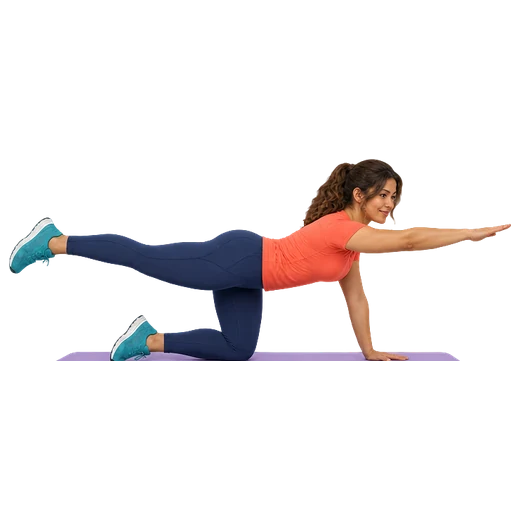
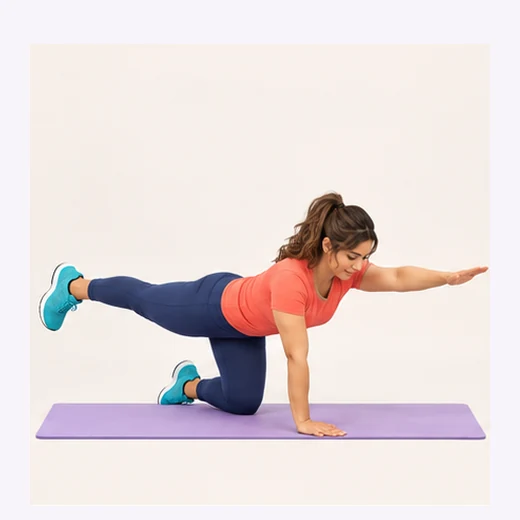
Add four-frame exercise animations

Changed region(s): [[0.0, 0.3077, 0.9846, 0.8615]]

diff --git a/src/components.jsx b/src/components.jsx
@@ -41,7 +41,7 @@ export function Onboarding({initial,onSave,onClose}){
  {step===0&&<><label className="field">¿Cómo te llamas? <span className="muted">(opcional)</span><input value={p.name} maxLength={30} onChange={e=>update('name',e.target.value)} placeholder="Tu nombre"/></label><p>¿Qué te gustaría conseguir?</p><div className="choices two">{Object.entries(GOALS).map(([v,l],i)=>{const I=[Leaf,Dumbbell,Sun,Wind,Heart][i];return <button key={v} className={'choice '+(p.goal===v?'selected':'')} onClick={()=>setP(x=>({...x,goal:v,diastasis:v==='core'?true:x.diastasis}))}><I size={20}/><span>{l}{v==='core'&&<small>Fortalece el control profundo y trabaja el abultamiento asociado a la diástasis.</small>}</span>{p.goal===v&&<Check size={17}/>}</button>})}</div></>}
  {step===1&&<><p className="muted">Esto ajusta el tiempo de trabajo y las variantes. Puedes cambiarlo después.</p><div className="choices">{Object.entries(levels).map(([v,l],i)=><button className={'choice '+(p.level===v?'selected':'')} key={v} onClick={()=>update('level',v)}><span><b>{l}</b><small>{['Quiero aprender los movimientos con calma.','He entrenado antes, pero llevo un tiempo sin hacerlo.','Tengo el hábito y conozco los ejercicios básicos.'][i]}</small></span>{p.level===v&&<Check/>}</button>)}</div></>}
  {step===2&&<><p>¿Cuánto tiempo quieres dedicarle?</p><div className="choices three">{[10,12,15].map(n=><button key={n} className={'choice duration '+(p.minutes===n?'selected':'')} onClick={()=>update('minutes',n)}><strong>{n}</strong><span>minutos</span></button>)}</div><p className="mt">Tu objetivo semanal</p><div className="segmented">{[2,3,4].map(n=><button key={n} className={p.days===n?'active':''} onClick={()=>update('days',n)}>{n} días</button>)}</div><p className="small muted">Incluimos calentamiento, descansos y vuelta a la calma. Puedes repartir los días como te acomode.</p></>}
- {step===3&&<><p>Siempre sin pesas ni máquinas. ¿Tienes una silla firme?</p><button className={'choice '+(p.equipment.includes('chair')?'selected':'')} onClick={()=>toggle('equipment','chair')}><span>Sí, una silla sin ruedas</span>{p.equipment.includes('chair')?<Check/>:<Plus/>}</button><p className="mt">Prefiero evitar… <span className="muted">(opcional)</span></p><div className="choices two">{[['floor','Ejercicios en el suelo'],['wrists','Cargar peso en las muñecas'],['knees','Sentadillas y apoyo de rodillas'],['back','Flexión o carga de espalda'],['shoulders','Trabajo de hombros']].map(([v,l])=><button key={v} className={'choice '+(p.avoid.includes(v)?'selected':'')} onClick={()=>toggle('avoid',v)}><span>{l}</span>{p.avoid.includes(v)?<Check size={17}/>:<Plus size={17}/>}</button>)}</div><p className="small muted">Estas opciones excluyen movimientos; no son un tratamiento para lesiones.</p><p className="mt">Cuidado abdominal</p><button className={'choice '+(guarded?'selected':'')} disabled={p.goal==='core'} onClick={()=>update('diastasis',!p.diastasis)}><span><b>Quiero ejercicios compatibles con diástasis</b><small>Usaremos respiración, abdomen profundo y movimientos lentos. Evitaremos planchas y flexiones.</small></span>{guarded?<Check/>:<Plus/>}</button>{guarded&&<p className="notice">Si ves un cono o bulto en el abdomen, o sientes dolor o presión pélvica, detente. Una separación marcada o persistente necesita evaluación de fisioterapia de piso pélvico. Fortalecer el abdomen profundo puede mejorar el control y el abultamiento; no reduce grasa localizada.</p>}<p className="mt">Elige quién te acompaña</p><div className="coach-choices">{[['sabina','Sabina','Entrenadora y voz femenina'],['victor','Víctor','Entrenador y voz masculina']].map(([value,name,description])=><button type="button" key={value} aria-label={'Elegir a '+name} className={'coach-choice '+(p.coach===value?'selected':'')} onClick={()=>chooseCoach(value)}><span className="coach-preview"><ExerciseArt type="march" animated={false} coach={value}/></span><span><b>{name}</b><small>{description}</small></span>{p.coach===value&&<Check size={18}/>}</button>)}</div><p className="mt">Guía por voz de Microsoft Edge</p><button className={'choice '+(p.sound?'selected':'')} onClick={()=>update('sound',!p.sound)}><span><b>{p.sound?'Narración activada':'Narración desactivada'}</b><small>La voz anuncia el ejercicio y las pausas durante la sesión.</small></span>{p.sound?<Check/>:<Plus/>}</button>{p.sound&&<><label className="field">Voz disponible <select value={p.voiceURI} onChange={e=>update('voiceURI',e.target.value)}><option value="">Automática · prioriza {preferred.name} de Chile</option>{voices.map(v=><option value={v.voiceURI} key={v.voiceURI}>{v.name} · {v.lang}</option>)}</select></label><div className="voice-row"><button type="button" className="button secondary voice-preview" onClick={previewVoice}><Play size={16}/>Probar voz</button><span className={'voice-status '+(chileAvailable?'available':'fallback')}>{chileAvailable?'Voz chilena disponible en Edge.':'Edge no expone '+preferred.name+' en este equipo; usará '+(activeVoice?.name||preferred.fallback+' en español')+' como alternativa.'}</span></div></>}</>}
+ {step===3&&<><p>Siempre sin pesas ni máquinas. ¿Tienes una silla firme?</p><button className={'choice '+(p.equipment.includes('chair')?'selected':'')} onClick={()=>toggle('equipment','chair')}><span>Sí, una silla sin ruedas</span>{p.equipment.includes('chair')?<Check/>:<Plus/>}</button><p className="mt">Prefiero evitar… <span className="muted">(opcional)</span></p><div className="choices two">{[['floor','Ejercicios en el suelo'],['wrists','Cargar peso en las muñecas'],['knees','Sentadillas y apoyo de rodillas'],['back','Flexión o carga de espalda'],['shoulders','Trabajo de hombros']].map(([v,l])=><button key={v} className={'choice '+(p.avoid.includes(v)?'selected':'')} onClick={()=>toggle('avoid',v)}><span>{l}</span>{p.avoid.includes(v)?<Check size={17}/>:<Plus size={17}/>}</button>)}</div><p className="small muted">Estas opciones excluyen movimientos; no son un tratamiento para lesiones.</p><p className="mt">Cuidado abdominal</p><button className={'choice '+(guarded?'selected':'')} disabled={p.goal==='core'} onClick={()=>update('diastasis',!p.diastasis)}><span><b>Quiero ejercicios compatibles con diástasis</b><small>Empezaremos con respiración y control profundo. Las progresiones aparecen solo en nivel activo y si mantienes el abdomen sin abombamiento.</small></span>{guarded?<Check/>:<Plus/>}</button>{guarded&&<p className="notice">Si ves un cono o bulto en el abdomen, o sientes dolor o presión pélvica, detente. Una separación marcada o persistente necesita evaluación de fisioterapia de piso pélvico. Fortalecer el abdomen profundo puede mejorar el control y el abultamiento; no reduce grasa localizada.</p>}<p className="mt">Elige quién te acompaña</p><div className="coach-choices">{[['sabina','Sabina','Entrenadora y voz femenina'],['victor','Víctor','Entrenador y voz masculina']].map(([value,name,description])=><button type="button" key={value} aria-label={'Elegir a '+name} className={'coach-choice '+(p.coach===value?'selected':'')} onClick={()=>chooseCoach(value)}><span className="coach-preview"><ExerciseArt type="march" animated={false} coach={value}/></span><span><b>{name}</b><small>{description}</small></span>{p.coach===value&&<Check size={18}/>}</button>)}</div><p className="mt">Guía por voz de Microsoft Edge</p><button className={'choice '+(p.sound?'selected':'')} onClick={()=>update('sound',!p.sound)}><span><b>{p.sound?'Narración activada':'Narración desactivada'}</b><small>La voz anuncia el ejercicio y las pausas durante la sesión.</small></span>{p.sound?<Check/>:<Plus/>}</button>{p.sound&&<><label className="field">Voz disponible <select value={p.voiceURI} onChange={e=>update('voiceURI',e.target.value)}><option value="">Automática · prioriza {preferred.name} de Chile</option>{voices.map(v=><option value={v.voiceURI} key={v.voiceURI}>{v.name} · {v.lang}</option>)}</select></label><div className="voice-row"><button type="button" className="button secondary voice-preview" onClick={previewVoice}><Play size={16}/>Probar voz</button><span className={'voice-status '+(chileAvailable?'available':'fallback')}>{chileAvailable?'Voz chilena disponible en Edge.':'Edge no expone '+preferred.name+' en este equipo; usará '+(activeVoice?.name||preferred.fallback+' en español')+' como alternativa.'}</span></div></>}</>}
  {step===4&&<><div className="plan-summary"><Leaf size={32}/><div><b>{GOALS[p.goal]}</b><p>{p.minutes} min · {p.days} días por semana · {levels[p.level]}</p></div></div><p>Empezarás con {adaptation(p,[]).work} segundos de movimiento por bloque y el resto de cada minuto para recuperar. Al terminar, tu esfuerzo y técnica ayudan a ajustar la próxima sesión.</p><div className="tip"><Heart/><p>Diseñada para personas adultas. Si tienes dolor actual, una lesión, embarazo o una indicación médica que limite el ejercicio, pide orientación antes de comenzar. Detente ante dolor, mareo o malestar.</p></div><label className="checkbox"><input type="checkbox" checked={review} onChange={e=>setReview(e.target.checked)}/>He revisado mi punto de partida y mis preferencias.</label></>}
  <div className="modal-actions">{step>0?<Button secondary onClick={()=>setStep(step-1)}><ArrowLeft size={18}/> Atrás</Button>:<span/>}<Button disabled={step===4&&!review} onClick={()=>step<4?setStep(step+1):onSave(p)}>{step===4?'Guardar mi plan':'Continuar'}<ArrowRight size={18}/></Button></div></Modal>
 }

diff --git a/src/data.js b/src/data.js
@@ -18,14 +18,20 @@ export const EXERCISES=[
  {id:'cat',name:'Basculación en cuatro apoyos',area:'Diástasis y core',type:'cat',color:'purple',tags:['floor','wrists','knees','back'],diastasisSafe:true,reference:{provider:'Royal Berkshire NHS',url:'https://www.royalberkshire.nhs.uk/media/mqjfxwgj/physio-separation-of-the-abdominal-muscles.pdf'},steps:['Coloca manos bajo hombros y rodillas bajo caderas sobre una superficie cómoda.','Exhala y redondea suavemente la espalda mientras recoges un poco la pelvis.','Inhala al volver a una espalda neutral; evita hundirla o forzar el recorrido.'],tip:'Observa el abdomen: detente si aparece abombamiento, dolor o presión pélvica.',easy:'Reduce el recorrido o apoya los antebrazos sobre una superficie elevada.',voice:'Exhala y redondea suave. Inhala y vuelve a una espalda neutral.'}
 ,
  {id:'heel-slide',name:'Deslizamiento de talón',area:'Diástasis y core',type:'heel-slide',color:'cyan',tags:['floor','back'],diastasisSafe:true,reference:{provider:'Torbay and South Devon NHS',url:'https://www.torbayandsouthdevon.nhs.uk/uploads/25751.pdf'},steps:['Túmbate boca arriba con rodillas flexionadas, pies apoyados y pelvis nivelada.','Exhala y activa suavemente el abdomen profundo; desliza un talón por el suelo sin arquear la espalda.','Vuelve despacio, relaja y cambia de pierna; detente antes de que aparezca un cono abdominal.'],tip:'El talón nunca se despega del suelo y la pelvis no gira.',easy:'Acorta el deslizamiento y practica una pierna por bloque.',voice:'Exhala y activa suave. Desliza un talón sin mover la pelvis. Vuelve y cambia de lado.'},
+ {id:'supine-march',name:'Marcha supina',area:'Diástasis y core',type:'supine-march',color:'orange',tags:['floor','back'],diastasisSafe:true,steps:['Túmbate boca arriba con rodillas flexionadas, pies apoyados y pelvis estable.','Exhala y despega un pie solo unos centímetros, sin arquear la espalda.','Apóyalo con control y alterna; reduce la altura si el abdomen se abomba.'],tip:'La pelvis permanece quieta y el movimiento sale de la cadera.',easy:'Despega solo el talón y conserva la punta del pie en el suelo.',voice:'Exhala, eleva un pie sin mover la pelvis. Apoya suave y alterna.'},
+ {id:'dead-bug',name:'Dead bug modificado',area:'Diástasis y core',type:'dead-bug',color:'purple',tags:['floor','back','shoulders'],diastasisSafe:true,progression:true,steps:['Túmbate boca arriba y lleva las piernas a una posición cómoda de mesa.','Exhala y baja un talón o extiende un brazo; mueve una sola extremidad por vez.','Regresa antes de perder la postura y alterna sin contener el aire.'],tip:'Usa un recorrido pequeño y detente si aparece un cono en el abdomen.',easy:'Mantén ambos pies apoyados y mueve únicamente un brazo.',voice:'Exhala. Mueve una sola extremidad sin arquear la espalda. Regresa y alterna.'},
+ {id:'glute-bridge',name:'Puente de glúteos',area:'Diástasis y core',type:'glute-bridge',color:'pink',tags:['floor','back','knees'],diastasisSafe:true,steps:['Túmbate con rodillas flexionadas y pies apoyados al ancho de caderas.','Exhala, activa suave y empuja el suelo con los talones para elevar la pelvis.','Aprieta los glúteos arriba sin arquear la espalda y baja vértebra a vértebra.'],tip:'Costillas y pelvis permanecen alineadas; la fuerza sale de los glúteos.',easy:'Eleva la pelvis solo hasta donde mantengas el abdomen liso.',voice:'Exhala y eleva la pelvis con los glúteos. Pausa y baja despacio.'},
+ {id:'step-up',name:'Subida a escalón bajo',area:'Piernas',type:'step-up',color:'orange',tags:['knees'],steps:['Usa un escalón bajo, firme y despejado; acerca todo el pie al borde.','Apoya la planta completa y empuja el escalón para subir con el tronco alto.','Junta los pies arriba y desciende con control; alterna la pierna inicial.'],tip:'La rodilla sigue la dirección del pie y el escalón no debe moverse.',easy:'Usa menos altura y una pared cercana solo para equilibrio.'},
+ {id:'calf-raise',name:'Elevación de talones',area:'Piernas',type:'calf-raise',color:'cyan',tags:[],steps:['Ponte de pie con los pies paralelos y el peso repartido.','Eleva ambos talones lentamente hasta quedar sobre la parte delantera del pie.','Haz una pausa breve y baja con control hasta apoyar por completo.'],tip:'Mantén el cuerpo vertical; apóyate suavemente en una pared si lo necesitas.',easy:'Reduce la altura o haz el movimiento sentado.'},
+ {id:'side-plank-knees',name:'Plancha lateral con rodillas',area:'Diástasis y core',type:'side-plank-knees',color:'purple',tags:['floor','shoulders','knees'],diastasisSafe:true,progression:true,steps:['Colócate de lado con rodillas flexionadas y el antebrazo justo bajo el hombro.','Exhala y eleva la pelvis hasta alinear hombro, cadera y rodillas.','Mantén respirando de 15 a 20 segundos y baja con control; cambia de lado.'],tip:'Úsala solo si controlas la presión abdominal sin cono, dolor ni pesadez.',easy:'Haz una elevación corta de pelvis y baja de inmediato.',voice:'Exhala y eleva la pelvis. Mantén una línea del hombro a las rodillas y sigue respirando.'},
  {id:'knee-fallout',name:'Apertura controlada de rodilla',area:'Diástasis y core',type:'knee-fallout',color:'pink',tags:['floor','back'],diastasisSafe:true,reference:{provider:'Torbay and South Devon NHS',url:'https://www.torbayandsouthdevon.nhs.uk/uploads/25751.pdf'},steps:['Túmbate boca arriba con ambas rodillas flexionadas y los pies apoyados.','Exhala, activa el abdomen profundo y deja que una rodilla se abra lentamente hacia un lado.','Detén el recorrido antes de que la pelvis gire; vuelve al centro y alterna.'],tip:'La otra rodilla permanece apuntando arriba y las caderas siguen niveladas.',easy:'Abre la rodilla solo unos centímetros.',voice:'Exhala y abre una rodilla sin girar la pelvis. Vuelve al centro y alterna.'}
 ];
 export const byId=id=>EXERCISES.find(e=>e.id===id);
 export const defaults={name:'',goal:'habit',level:'new',minutes:12,days:3,equipment:[],avoid:[],diastasis:false,sound:true,voiceURI:'',coach:'sabina'};
 export const GOALS={habit:'Crear el hábito',strength:'Ganar fuerza',energy:'Sentirme con energía',mobility:'Moverme con soltura',core:'Mejorar abdomen bajo y diástasis'};
 export const TITLES={habit:['Un ratito para ti','Pequeños pasos, gran día','Tu pausa de movimiento'],strength:['Fuerza desde lo simple','Tu cuerpo, tu fuerza','Paso a paso más fuerte'],energy:['Enciende tu día','Recarga de energía','Cambia el ritmo'],mobility:['Suelta el día','Muévete con calma','Un poco más de soltura'],core:['Abdomen profundo con calma','Control desde el centro','Respira, activa y avanza']};
-export const DIASTASIS_SAFE=new Set(['march','core','tilt','cat','heel-slide','knee-fallout','chest','back','calf']);
-export function compatible(e,p){const guarded=p.diastasis||p.goal==='core';return (!guarded||DIASTASIS_SAFE.has(e.id))&&!e.tags.some(t=>(p.avoid||[]).includes(t))&&(!e.equipment||(p.equipment||[]).includes(e.equipment));}
+export const DIASTASIS_SAFE=new Set(['march','core','tilt','cat','heel-slide','knee-fallout','supine-march','dead-bug','glute-bridge','bird','side-plank-knees','chest','back','calf','calf-raise']);
+export function compatible(e,p){const guarded=p.diastasis||p.goal==='core';return (!guarded||DIASTASIS_SAFE.has(e.id))&&(!guarded||!e.progression||p.level==='active')&&!e.tags.some(t=>(p.avoid||[]).includes(t))&&(!e.equipment||(p.equipment||[]).includes(e.equipment));}
 export function adaptation(p,sessions){
  let base={new:20,returning:30,active:35}[p.level]||20;
  const recent=sessions.slice(-2);
@@ -38,16 +44,20 @@ export function buildPlan(profile,sessions=[],energy='normal'){
  const p={...defaults,...profile},ad=adaptation(p,sessions),guarded=p.diastasis||p.goal==='core';let work=energy==='low'?Math.max(15,ad.work-5):ad.work;
  if(guarded)work=Math.min(work,20);
  const completed=sessions.filter(s=>s.complete).length;
- const corePools=[
-  ['core','heel-slide','tilt','knee-fallout'],
-  ['knee-fallout','cat','core','heel-slide'],
-  ['heel-slide','tilt','march','back','core']
+ const corePools=p.level==='active'?[
+  ['core','heel-slide','supine-march','dead-bug'],
+  ['glute-bridge','bird','core','knee-fallout'],
+  ['heel-slide','side-plank-knees','tilt','supine-march']
+ ]:[
+  ['core','heel-slide','tilt','supine-march'],
+  ['knee-fallout','glute-bridge','core','heel-slide'],
+  ['supine-march','tilt','march','core']
  ];
  const focusPools={
-  habit:['chair','squat','wall','bird','back'],
-  strength:['squat','chair','wall','bird','wide','knee'],
-  energy:['march','squat','wall','wide','bird'],
-  mobility:['back','wall','calf','squat','chest','bird','cat']
+  habit:['chair','squat','wall','step-up','back','calf-raise'],
+  strength:['squat','step-up','wall','bird','glute-bridge','calf-raise','wide','knee'],
+  energy:['march','squat','step-up','wall','calf-raise','bird'],
+  mobility:['back','wall','calf','calf-raise','squat','chest','bird','cat']
  };
  let ids=guarded?corePools[completed%corePools.length]:focusPools[p.goal]||focusPools.habit;
  if(!guarded&&p.level==='new')ids=ids.filter(id=>id!=='knee'&&id!=='wide');

diff --git a/src/Visuals.jsx b/src/Visuals.jsx
@@ -15,7 +15,13 @@ const characterFiles={
  tilt:'tilt.webp',
  cat:'cat.webp',
  'heel-slide':'heel-slide.webp',
- 'knee-fallout':'knee-fallout.webp'
+ 'knee-fallout':'knee-fallout.webp',
+ 'supine-march':'supine-march.webp',
+ 'dead-bug':'dead-bug.webp',
+ 'glute-bridge':'glute-bridge.webp',
+ 'step-up':'step-up.webp',
+ 'calf-raise':'calf-raise.webp',
+ 'side-plank-knees':'side-plank-knees.webp'
 };
 
 const characterLabels={
@@ -33,7 +39,13 @@ const characterLabels={
  tilt:'Inclinación pélvica suave',
  cat:'Basculación suave en cuatro apoyos',
  'heel-slide':'Deslizamiento controlado de un talón',
- 'knee-fallout':'Apertura controlada de una rodilla'
+ 'knee-fallout':'Apertura controlada de una rodilla',
+ 'supine-march':'Marcha supina con pelvis estable',
+ 'dead-bug':'Dead bug modificado moviendo una extremidad',
+ 'glute-bridge':'Puente de glúteos con elevación de pelvis',
+ 'step-up':'Subida controlada a un escalón bajo',
+ 'calf-raise':'Elevación controlada de ambos talones',
+ 'side-plank-knees':'Plancha lateral modificada con rodillas apoyadas'
 };
 
 export function ExerciseArt({type='march',animated=true,small=false,coach='sabina'}){

diff --git a/scripts/build-coach-assets.py b/scripts/build-coach-assets.py
@@ -19,7 +19,8 @@ MOTION_BACKGROUND = (248, 244, 250, 255)
 EXERCISES = [
     "march", "squat", "wide", "chair", "wall", "bird", "knee",
     "chest", "back", "calf", "core", "tilt", "cat", "heel-slide",
-    "knee-fallout",
+    "knee-fallout", "supine-march", "dead-bug", "glute-bridge",
+    "step-up", "calf-raise", "side-plank-knees",
 ]
 
 SABINA_SHEETS = {
@@ -45,6 +46,41 @@ SHEET_BANDS = {
     ],
 }
 
+
+MULTIFRAME_COMBINED = {
+    "heel-slide": "heel-slide-4frames.png",
+    "supine-march": "supine-march-4frames.png",
+    "dead-bug": "dead-bug-4frames.png",
+    "glute-bridge": "glute-bridge-4frames.png",
+    "bird": "bird-dog-4frames.png",
+    "wall": "wall-pushup-4frames.png",
+    "squat": "squat-4frames.png",
+    "step-up": "step-up-4frames.png",
+    "calf-raise": "calf-raise-4frames.png",
+    "side-plank-knees": "side-plank-knees-4frames.png",
+}
+
+MULTIFRAME_SEPARATE = {
+    "core": {
+        "sabina": "sabina-breathing-4frames.png",
+        "victor": "victor-breathing-4frames.png",
+    },
+}
+
+PHASES = {
+    "core": ["PREPARA", "INHALA 360°", "EXHALA", "ACTIVA SUAVE"],
+    "heel-slide": ["PREPARA", "DESLIZA", "EXTIENDE", "REGRESA"],
+    "supine-march": ["PIES APOYADOS", "ELEVA UN PIE", "ALTERNA", "REGRESA"],
+    "dead-bug": ["PREPARA", "BAJA EL TALÓN", "EXTIENDE EL BRAZO", "REGRESA"],
+    "glute-bridge": ["PREPARA", "INICIA", "ELEVA LA PELVIS", "BAJA SUAVE"],
+    "bird": ["CUATRO APOYOS", "EXTIENDE", "MANTÉN NIVEL", "REGRESA"],
+    "wall": ["PREPARA", "ACÉRCATE", "FLEXIONA", "EMPUJA"],
+    "squat": ["DE PIE", "CADERA ATRÁS", "BAJA CON CONTROL", "SUBE"],
+    "step-up": ["PREPARA", "APOYA EL PIE", "SUBE", "BAJA CON CONTROL"],
+    "calf-raise": ["TALONES ABAJO", "SUBE", "PUNTAS DE PIE", "BAJA LENTO"],
+    "side-plank-knees": ["APOYA", "ELEVA", "ALINEA", "BAJA SUAVE"],
+}
+
 CUES = {
     "march": "ALTERNA LAS RODILLAS",
     "calf": "TALÓN TRASERO ABAJO",
@@ -52,6 +88,15 @@ CUES = {
     "tilt": "BASCULA LA PELVIS",
     "heel-slide": "DESLIZA EL TALÓN",
     "knee-fallout": "ABRE SIN GIRAR LA PELVIS",
+    "supine-march": "MARCHA SIN ARQUEAR",
+    "dead-bug": "MUEVE UNA EXTREMIDAD",
+    "glute-bridge": "ELEVA CON GLÚTEOS",
+    "bird": "PELVIS ESTABLE",
+    "wall": "CUERPO ALINEADO",
+    "squat": "RODILLAS HACIA LOS PIES",
+    "step-up": "TODA LA PLANTA APOYADA",
+    "calf-raise": "SUBE Y BAJA CON CONTROL",
+    "side-plank-knees": "HOMBRO · CADERA · RODILLA",
 }
 
 FONT_PATHS = [
@@ -208,6 +253,9 @@ def add_cue(image: Image.Image, exercise: str, index: int, total: int) -> Image.
     width = box[2] - box[0] + 28
     draw.rounded_rectangle(((SIZE - width) // 2, 8, (SIZE + width) // 2, 41), radius=16, fill=(255, 255, 255, 235))
     draw.text((SIZE // 2, 24), label, font=label_font, fill=(25, 28, 48, 255), anchor="mm")
+    if exercise in PHASES:
+        phase_index = min(3, index * 4 // total)
+        phase_label(draw, PHASES[exercise][phase_index])
     pulse = 150 + round(90 * (0.5 + 0.5 * math.sin(index / total * math.tau)))
     orange = (255, 120, 65, pulse)
     cyan = (39, 184, 176, pulse)
@@ -255,6 +303,42 @@ def add_cue(image: Image.Image, exercise: str, index: int, total: int) -> Image.
             arrow(draw, (367, 330), (379, 359), cyan)
             phase_label(draw, "ABRE SIN GIRAR LA PELVIS")
     return result
+
+
+def grid_cell(sheet: Image.Image, row: int, rows: int, column: int, columns: int) -> Image.Image:
+    width, height = sheet.size
+    x0 = round(column * width / columns) + 3
+    x1 = round((column + 1) * width / columns) - 3
+    y0 = round(row * height / rows) + 3
+    y1 = round((row + 1) * height / rows) - 3
+    return sheet.crop((x0, y0, x1, y1)).convert("RGBA")
+
+
+def fit_grid_frame(image: Image.Image, size: int = SIZE) -> Image.Image:
+    image = image.convert("RGBA")
+    max_width, max_height = size - 16, size - 58
+    ratio = min(max_width / image.width, max_height / image.height)
+    resized = image.resize((round(image.width * ratio), round(image.height * ratio)), Image.Resampling.LANCZOS)
+    canvas = Image.new("RGBA", (size, size), MOTION_BACKGROUND)
+    canvas.alpha_composite(resized, ((size - resized.width) // 2, 44 + (max_height - resized.height) // 2))
+    return canvas
+
+
+def multiframe_raw(exercise: str, coach: str) -> list[Image.Image] | None:
+    if exercise in MULTIFRAME_SEPARATE:
+        sheet = Image.open(SOURCE / MULTIFRAME_SEPARATE[exercise][coach]).convert("RGBA")
+        return [grid_cell(sheet, row, 2, column, 2) for row in range(2) for column in range(2)]
+    filename = MULTIFRAME_COMBINED.get(exercise)
+    if not filename:
+        return None
+    sheet = Image.open(SOURCE / filename).convert("RGBA")
+    row = 0 if coach == "sabina" else 1
+    return [grid_cell(sheet, row, 2, column, 4) for column in range(4)]
+
+
+def multiframe_sequence(raw_frames: list[Image.Image], hold: int = 5) -> list[Image.Image]:
+    frames = [fit_grid_frame(frame) for frame in raw_frames]
+    return [frame.copy() for frame in frames for _ in range(hold)]
 
 
 def gif_palette(image: Image.Image) -> Image.Image:
@@ -312,6 +396,12 @@ def build_sabina() -> None:
         pairs.update(extract_sheet(filename, rows, exercises))
 
     for exercise in EXERCISES:
+        raw_frames = multiframe_raw(exercise, "sabina")
+        if raw_frames:
+            frames = multiframe_sequence(raw_frames)
+            save_gif(frames, ANIMATIONS / "sabina" / f"{exercise}.gif", exercise)
+            save_static(fit_grid_frame(raw_frames[2], STATIC_SIZE), CHARACTERS / "sabina" / f"{exercise}.webp")
+            continue
         start_raw, end_raw = pairs[exercise]
         padding = 38 if exercise in {"core", "tilt", "heel-slide", "knee-fallout"} else 16
         start = normalize(start_raw, SIZE, 52, padding)
@@ -341,6 +431,12 @@ def build_victor() -> None:
     filename, rows, exercises = VICTOR_SHEET
     overrides = extract_sheet(filename, rows, exercises)
     for exercise in EXERCISES:
+        raw_frames = multiframe_raw(exercise, "victor")
+        if raw_frames:
+            frames = multiframe_sequence(raw_frames)
+            save_static(fit_grid_frame(raw_frames[2], STATIC_SIZE), destination_characters / f"{exercise}.webp")
+            save_gif(frames, destination_animations / f"{exercise}.gif", exercise)
+            continue
         if exercise in overrides:
             start_raw, end_raw = overrides[exercise]
             padding = 38 if exercise in {"core", "tilt", "heel-slide", "knee-fallout"} else 16

diff --git a/README.md b/README.md
@@ -11,7 +11,7 @@ Haz doble clic en **Abrir Mova.cmd**. Abre http://127.0.0.1:5178/ y usa los arch
 
 La encuesta configura objetivo, experiencia, 10/12/15 minutos, 2/3/4 días por semana, silla, movimientos a evitar, modo cuidadoso para diástasis, entrenador y narración. Elegir a Sabina muestra el avatar femenino y prioriza la voz `es-CL-CatalinaNeural`; elegir a Víctor muestra el avatar masculino y prioriza `es-CL-LorenzoNeural`. Si Edge no expone esas voces, la app elige una voz Microsoft en español y lo informa en pantalla.
 
-La biblioteca tiene 15 ejercicios y 30 GIF originales: una demostración de Sabina y otra de Víctor para cada movimiento. Incluye respiración y abdomen profundo, inclinación pélvica, gato suave, deslizamiento de talón y apertura controlada de rodilla. Las rutinas cambian según objetivo, nivel, restricciones y sesiones completadas.
+La biblioteca tiene 21 ejercicios y 42 GIF originales: una demostración de Sabina y otra de Víctor para cada movimiento. Incluye secuencias de cuatro fases para respiración 360°, deslizamiento de talón, marcha supina, dead bug modificado, puente de glúteos, bird dog, flexión en pared, sentadilla, step-up, elevación de talones y plancha lateral con rodillas. Las rutinas cambian según objetivo, nivel, restricciones y sesiones completadas.
 
 El botón **Perfil** en móvil y la tarjeta de usuario en escritorio permiten cambiar nombre, avatar, narración y voz directamente. Desde ese mismo editor se puede abrir la encuesta completa para modificar objetivo, tiempo o cuidados.
 
@@ -44,6 +44,6 @@ Revisión documental de flujos públicos, sin extracción de código propietario
 
 Los personajes 3D y sus GIF son originales y orientativos. Los GIF están en `public/animations`; los WebP estáticos en `public/characters`; los PNG fuente se conservan en `artifacts/coaches`. `scripts/build-coach-assets.py` permite regenerarlos. Los vídeos citados se usaron como referencia técnica y no se reproducen dentro de la app.
 
-Los ejercicios no sustituyen una evaluación profesional. El modo de diástasis usa activación profunda, inclinación pélvica y movimientos lentos; excluye planchas, flexiones y movimientos no marcados como compatibles. La selección automática no diagnostica ni prescribe rehabilitación. Fortalecer el abdomen profundo puede ayudar al control de la pared abdominal, pero la app no promete reducir grasa localizada.
+Los ejercicios no sustituyen una evaluación profesional. El modo de diástasis empieza con activación profunda y movimientos lentos. Dead bug, bird dog y plancha lateral modificada se reservan para el nivel activo y exigen control de la presión abdominal; los movimientos no marcados como compatibles quedan excluidos. La selección automática no diagnostica ni prescribe rehabilitación. Fortalecer el abdomen profundo puede ayudar al control de la pared abdominal, pero la app no promete reducir grasa localizada.
 
 El prototipo inicial BASE se conserva como respaldo en archive/base-v0.html.
